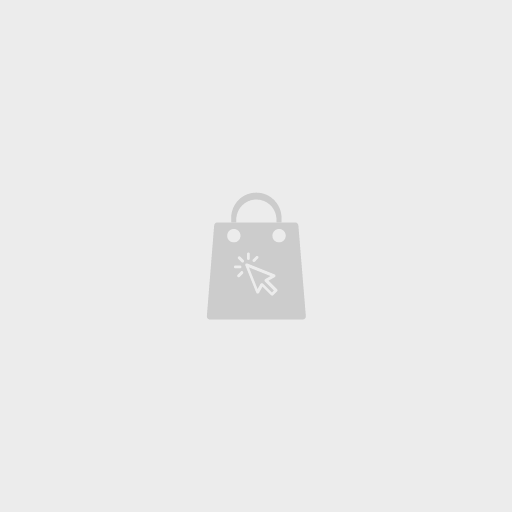
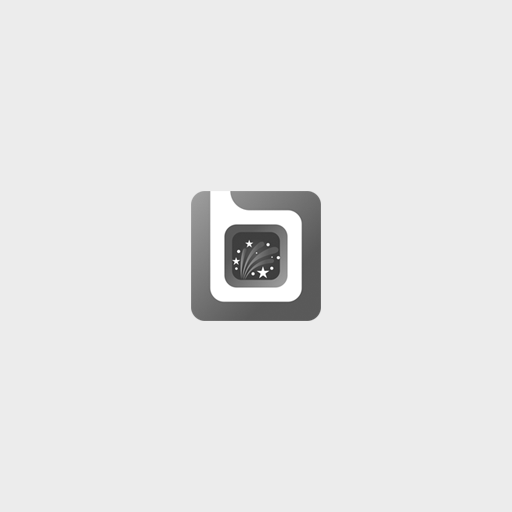
fix print bug

Changed region(s): [[0.375, 0.375, 0.625, 0.625]]

diff --git a/lib/screens/splash_screen.dart b/lib/screens/splash_screen.dart
@@ -39,16 +39,22 @@ class _SplashScreenState extends State<SplashScreen> {
     // TODO: implement initState
     super.initState();
     _initPackageInfo();
-    getSharedValueHelperData().then((value){
+    getSharedValueHelperData().then((value) {
       Future.delayed(Duration(seconds: 3)).then((value) {
-        Provider.of<LocaleProvider>(context,listen: false).setLocale(app_mobile_language.$!);
-        Navigator.pushAndRemoveUntil(context,
-          MaterialPageRoute(builder: (context) {
-            return Main(go_back: false,);
-          },
-          ),(route)=>false,);
-      }
-      );
+        Provider.of<LocaleProvider>(context, listen: false)
+            .setLocale(app_mobile_language.$!);
+        Navigator.pushAndRemoveUntil(
+          context,
+          MaterialPageRoute(
+            builder: (context) {
+              return Main(
+                go_back: false,
+              );
+            },
+          ),
+          (route) => false,
+        );
+      });
     });
   }
 
@@ -61,10 +67,9 @@ class _SplashScreenState extends State<SplashScreen> {
     return Container(
       width: DeviceInfo(context).height,
       height: DeviceInfo(context).height,
-      color:  MyTheme.splash_screen_color,
+      color: MyTheme.splash_screen_color,
       child: InkWell(
         child: Stack(
-
           // mainAxisAlignment: MainAxisAlignment.start,
           // crossAxisAlignment: CrossAxisAlignment.center,
           children: <Widget>[
@@ -80,7 +85,7 @@ class _SplashScreenState extends State<SplashScreen> {
               radius: 140.0,
             ),
             Positioned.fill(
-              top: DeviceInfo(context).height!/2-72,
+              top: DeviceInfo(context).height! / 2 - 72,
               child: Column(
                 children: [
                   Padding(
@@ -90,13 +95,13 @@ class _SplashScreenState extends State<SplashScreen> {
                       child: Container(
                         height: 72,
                         width: 72,
-                        padding: EdgeInsets.symmetric(horizontal: 12,vertical: 12),
+                        padding:
+                            EdgeInsets.symmetric(horizontal: 12, vertical: 12),
                         decoration: BoxDecoration(
-                          color: MyTheme.white,
-                          borderRadius: BorderRadius.circular(8)
-                        ),
+                            color: MyTheme.white,
+                            borderRadius: BorderRadius.circular(8)),
                         child: Image.asset(
-                            "assets/splash_screen_logo.png",
+                          "assets/splash_screen_logo.png",
                           filterQuality: FilterQuality.low,
                         ),
                       ),
@@ -115,17 +120,14 @@ class _SplashScreenState extends State<SplashScreen> {
                   Text(
                     "V " + _packageInfo.version,
                     style: TextStyle(
-                        fontWeight: FontWeight.bold,
-                        fontSize: 14.0,
-                        color: Colors.white,
+                      fontWeight: FontWeight.bold,
+                      fontSize: 14.0,
+                      color: Colors.white,
                     ),
                   ),
                 ],
               ),
             ),
-
-
-
             Positioned.fill(
               child: Align(
                 alignment: Alignment.bottomCenter,
@@ -161,7 +163,7 @@ class _SplashScreenState extends State<SplashScreen> {
     );
   }
 
-  Future<String?>  getSharedValueHelperData()async{
+  Future<String?> getSharedValueHelperData() async {
     access_token.load().whenComplete(() {
       AuthHelper().fetch_and_set();
     });
@@ -177,6 +179,5 @@ class _SplashScreenState extends State<SplashScreen> {
     // print("new splash screen app_language_rtl ${app_language_rtl.$}");
 
     return app_mobile_language.$;
-
   }
 }

diff --git a/lib/my_theme.dart b/lib/my_theme.dart
@@ -1,24 +1,26 @@
 import 'package:flutter/material.dart';
 
-class MyTheme{
+class MyTheme {
   /*configurable colors stars*/
-  static Color accent_color = Color.fromRGBO(230,46,4, 1);
-  static Color accent_color_shadow = Color.fromRGBO(229,65,28, .40); // this color is a dropshadow of
-  static Color soft_accent_color = Color.fromRGBO(254,234,209, 1);
-  static Color splash_screen_color = Color.fromRGBO(230,46,4, 1); // if not sure , use the same color as accent color
+  static Color accent_color = Color.fromRGBO(10, 167, 206, 1);
+  static Color accent_color_shadow =
+      Color.fromRGBO(229, 65, 28, .40); // this color is a dropshadow of
+  static Color soft_accent_color = Color.fromRGBO(254, 234, 209, 1);
+  static Color splash_screen_color = Color.fromRGBO(
+      10, 167, 206, 1); // if not sure , use the same color as accent color
   /*configurable colors ends*/
   /*If you are not a developer, do not change the bottom colors*/
-  static Color white = Color.fromRGBO(255,255,255, 1);
-  static Color noColor = Color.fromRGBO(255,255,255, 0);
-  static Color light_grey = Color.fromRGBO(239,239,239, 1);
-  static Color dark_grey = Color.fromRGBO(107,115,119, 1);
-  static Color medium_grey = Color.fromRGBO(167,175,179, 1);
-  static Color blue_grey = Color.fromRGBO(168,175,179, 1);
-  static Color medium_grey_50 = Color.fromRGBO(167,175,179, .5);
-  static Color grey_153 = Color.fromRGBO(153,153,153, 1);
-  static Color dark_font_grey = Color.fromRGBO(62,68,71, 1);
-  static Color font_grey = Color.fromRGBO(107,115,119, 1);
-  static Color textfield_grey = Color.fromRGBO(209,209,209, 1);
+  static Color white = Color.fromRGBO(255, 255, 255, 1);
+  static Color noColor = Color.fromRGBO(255, 255, 255, 0);
+  static Color light_grey = Color.fromRGBO(239, 239, 239, 1);
+  static Color dark_grey = Color.fromRGBO(107, 115, 119, 1);
+  static Color medium_grey = Color.fromRGBO(167, 175, 179, 1);
+  static Color blue_grey = Color.fromRGBO(168, 175, 179, 1);
+  static Color medium_grey_50 = Color.fromRGBO(167, 175, 179, .5);
+  static Color grey_153 = Color.fromRGBO(153, 153, 153, 1);
+  static Color dark_font_grey = Color.fromRGBO(62, 68, 71, 1);
+  static Color font_grey = Color.fromRGBO(107, 115, 119, 1);
+  static Color textfield_grey = Color.fromRGBO(209, 209, 209, 1);
   static Color golden = Color.fromRGBO(255, 168, 0, 1);
   static Color amber = Color.fromRGBO(254, 234, 209, 1);
   static Color amber_medium = Color.fromRGBO(254, 240, 215, 1);

diff --git a/lib/screens/login.dart b/lib/screens/login.dart
@@ -137,8 +137,8 @@ class _LoginState extends State<Login> {
 
   onPressedFacebookLogin() async {
     try {
-      final facebookLogin =
-          await FacebookAuth.instance.login(loginBehavior: LoginBehavior.webOnly);
+      final facebookLogin = await FacebookAuth.instance
+          .login(loginBehavior: LoginBehavior.webOnly);
 
       if (facebookLogin.status == LoginStatus.success) {
         // get the user data
@@ -601,19 +601,19 @@ class _LoginState extends State<Login> {
                             ),
                           ),
                         ),
-                        if (allow_twitter_login.$)
-                          Padding(
-                            padding: const EdgeInsets.only(left: 15.0),
-                            child: InkWell(
-                              onTap: () {
-                                onPressedTwitterLogin();
-                              },
-                              child: Container(
-                                width: 28,
-                                child: Image.asset("assets/twitter_logo.png"),
-                              ),
-                            ),
-                          ),
+                        // if (allow_twitter_login.$)
+                        //   Padding(
+                        //     padding: const EdgeInsets.only(left: 15.0),
+                        //     child: InkWell(
+                        //       onTap: () {
+                        //         onPressedTwitterLogin();
+                        //       },
+                        //       child: Container(
+                        //         width: 28,
+                        //         child: Image.asset("assets/twitter_logo.png"),
+                        //       ),
+                        //     ),
+                        //   ),
                         /* if (Platform.isIOS)
                           Padding(
                             padding: const EdgeInsets.only(left: 15.0),

diff --git a/lib/app_config.dart b/lib/app_config.dart
@@ -3,7 +3,7 @@ var this_year = DateTime.now().year.toString();
 class AppConfig {
   static String copyright_text =
       "@ Buzfi " + this_year; //this shows in the splash screen
-  static String app_name = "Multi Buzfi"; //this shows in the splash screen
+  static String app_name = "Buzfi"; //this shows in the splash screen
   static String purchase_code =
       ""; //enter your purchase code for the app from codecanyon
   //static String purchase_code = ""; //enter your purchase code for the app from codecanyon

diff --git a/android/app/src/main/kotlin/com/example/active_ecommerce_flutter/MainActivity.kt b/android/app/src/main/kotlin/com/example/active_ecommerce_flutter/MainActivity.kt
@@ -1,4 +1,4 @@
-package com.example.active_ecommerce_flutter
+package com.buzfi.buzfi_user_app
 
 import io.flutter.embedding.android.FlutterActivity
 
